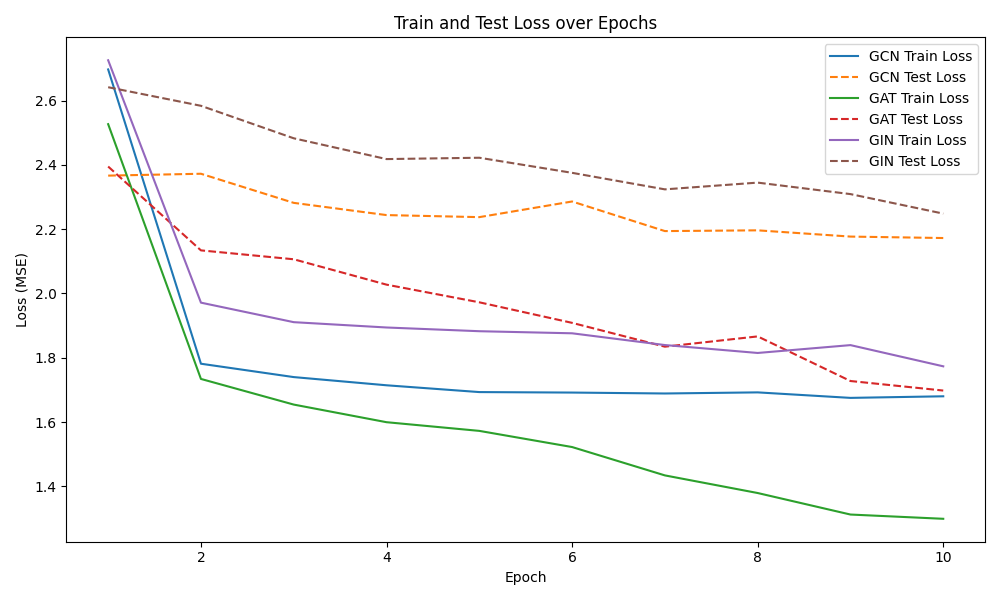
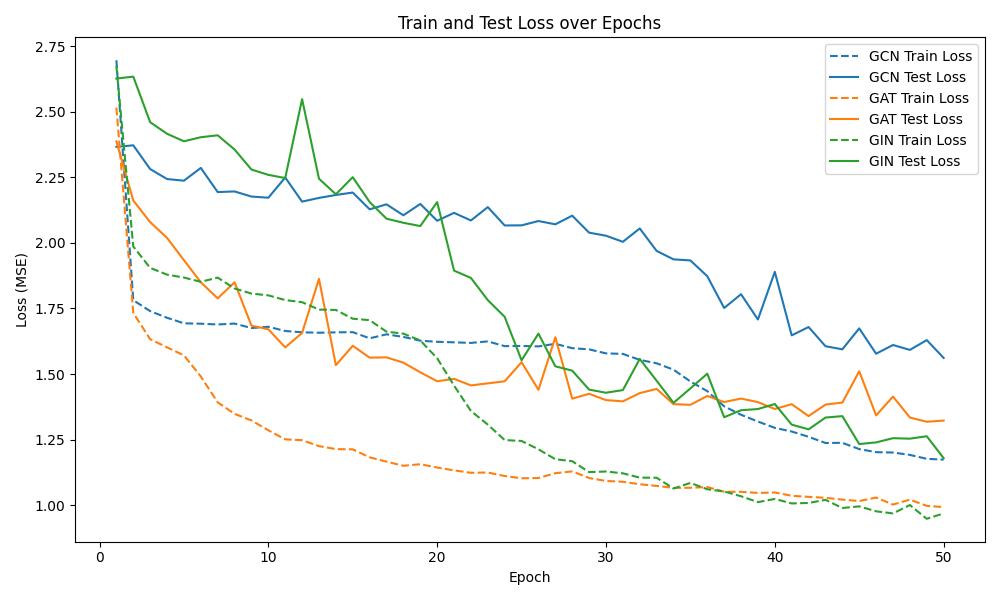
Enhanced loss-plot using matching colors per model

diff --git a/gnn_compare.py b/gnn_compare.py
@@ -157,7 +157,7 @@ def main():
 
     in_channels = dataset.num_node_features
     hidden_channels = 64
-    epochs = 10
+    epochs = 50
 
     # Define models to compare
     models = {
@@ -199,12 +199,13 @@ def main():
             f"MAE: {eval_metrics['MAE']:.4f}, "
             f"R2: {eval_metrics['R2']:.4f}"
         )
-
     # Plot training and test loss curves for each model
     plt.figure(figsize=(10, 6))
-    for name, (train_losses, test_losses) in loss_histories.items():
-        plt.plot(range(1, epochs + 1), train_losses, label=f"{name} Train Loss")
-        plt.plot(range(1, epochs + 1), test_losses, label=f"{name} Test Loss", linestyle="--")
+    colors = plt.rcParams['axes.prop_cycle'].by_key()['color']
+    for i, (name, (train_losses, test_losses)) in enumerate(loss_histories.items()):
+        color = colors[i % len(colors)]
+        plt.plot(range(1, epochs + 1), train_losses, label=f"{name} Train Loss", linestyle="--", color=color)
+        plt.plot(range(1, epochs + 1), test_losses, label=f"{name} Test Loss", linestyle="-", color=color)
     plt.xlabel("Epoch")
     plt.ylabel("Loss (MSE)")
     plt.title("Train and Test Loss over Epochs")

diff --git a/README.md b/README.md
@@ -8,6 +8,11 @@ This project demonstrates a molecular engineering application using Graph Neural
 
 Each model is trained to predict the internal energy at 0K (U₀) in a regression setting. Additionally, all key hyperparameters, training losses, evaluation metrics, model summaries, and plots are tracked using Neptune.
 
+### Loss Curves Visualization
+The image below shows the training loss curves for each model, providing a quick overview of their performance during training.
+
+![Loss Curves](loss_curves.png)
+
 ## Development Environment
 This project is configured as a devcontainer so that you can open it in Visual Studio Code (or another compatible editor) with a reproducible environment. The devcontainer uses a GPU-ready PyTorch base image:
 **pytorch/pytorch:2.0.0-cuda11.7-cudnn8-runtime**
@@ -46,3 +51,6 @@ The QM9 dataset is automatically downloaded by PyTorch Geometric and cached unde
 
 ## License
 This project is provided for educational and demonstration purposes.
+```
+
+This version includes the loss curve image to immediately showcase what the repository achieves. Simply ensure that the file `loss_curves.png` is placed in the same directory as your README for the image to render correctly on GitHub or your preferred platform.
